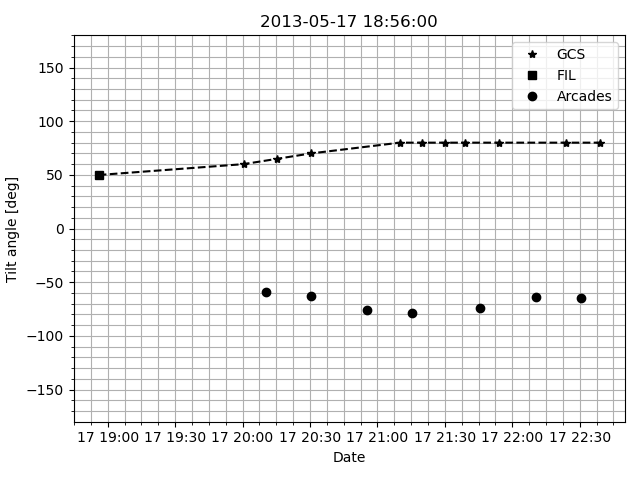
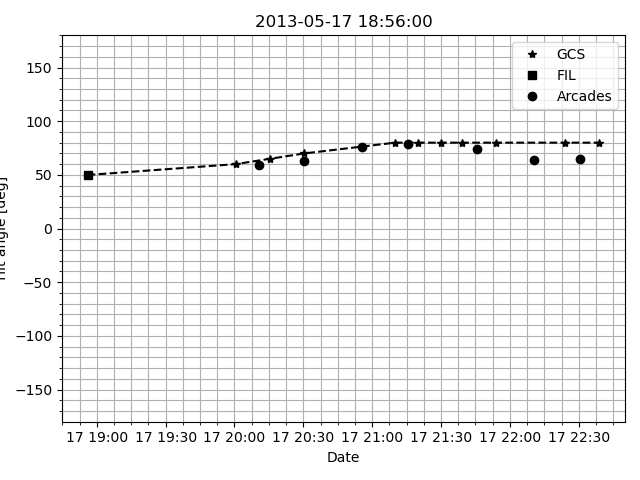
added all prop comparision with arcdes. MUST SOLVE ANGLE SIGN ISSUES

diff --git a/tools/iglesias/compare_all_prop.py b/tools/iglesias/compare_all_prop.py
@@ -37,7 +37,7 @@ def correct_ang(iang, flip=0):
     if flip == 1:
         ang[np.abs(ang) > 75] *= -1
     #ang[ang < 0] += 180
-    return ang
+    return np.abs(ang)
 
 
 # main
@@ -103,6 +103,7 @@ exit
 # tilt angles
 gcs_vs_ar_val = []
 gcs_vs_fil_all = []
+gcs_vs_arcades_all = []
 for d in df_fil['date']:
     d_str = d.strftime('%Y%m%d')
     if d_str in gcs_dates:
@@ -145,6 +146,7 @@ for d in df_fil['date']:
         y3 = np.array(y3).astype(float)
         y3 = correct_ang(y3, flip=0)
         plt.plot(x3, y3, 'ok', label='Arcades')
+        gcs_vs_arcades_all.append([gcs_val[0], y3[0]])
         ind = np.argsort(gcs_times)
         gcs_times = gcs_times[ind]
         gcs_val = gcs_val[ind]
@@ -163,12 +165,111 @@ for d in df_fil['date']:
 
 gcs_vs_fil_all = np.array(gcs_vs_fil_all)
 gcs_vs_ar_val = np.array(gcs_vs_ar_val)
+gcs_vs_arcades_all = np.array(gcs_vs_arcades_all)
 plt.scatter(gcs_vs_fil_all[:, 0], gcs_vs_fil_all[:, 1], color='b', label='gcs vs fil')
 plt.scatter(gcs_vs_ar_val[:, 0], gcs_vs_ar_val[:, 1], color='r', label='gcs vs ar')
+plt.scatter(gcs_vs_arcades_all[:, 0], gcs_vs_arcades_all[:, 1], color='g', label='gcs vs arcades')
 plt.ylabel('fil/ar [deg]')
 plt.xlabel('gcs [deg]')  
 plt.xlim([-90, 90])
 plt.ylim([-90, 90])
 plt.legend()
 plt.savefig(opath+'/scatter.png')
+plt.close()
+
+# plots df_ar['gcs_axial_vel'] vs df_arcades['width fit vel [km/s]'] for each date
+df_ar['datetimes'] = pd.to_datetime(df_ar['Date'], format='%d/%m/%Y')
+all_x=[]
+all_y=[]
+for d in df_ar['datetimes']:
+    d_str = d.strftime('%Y%m%d')
+    x = np.array((df_ar.loc[df_ar['datetimes'] == d, 'gcs_axial_vel']))
+    if len(x) > 1:
+        x = np.nanmean(x)
+    x = float(x)
+    y = np.mean(df_arcades.loc[df_arcades['date'].dt.date == d.date(), 'width fit vel [km/s]'])
+    all_x.append(x)
+    all_y.append(y)
+plt.scatter(all_x, all_y)
+plt.xlabel('gcs_axial_vel [km/s]')
+plt.ylabel('arcade width fit vel [km/s]')
+plt.savefig(opath+'/gcs_axial_vel_vs_width_fit_vel.png')
+plt.close()
+
+# plots df_ar['gcs_radial_vel_at6'] vs df_arcades['width fit vel [km/s]'] for each date
+df_ar['datetimes'] = pd.to_datetime(df_ar['Date'], format='%d/%m/%Y')
+all_x=[]
+all_y=[]
+for d in df_ar['datetimes']:
+    d_str = d.strftime('%Y%m%d')
+    x = np.array((df_ar.loc[df_ar['datetimes'] == d, 'gcs_radial_vel_at6']))
+    if len(x) > 1:
+        x = np.nanmean(x)
+    x = float(x)
+    y = np.mean(df_arcades.loc[df_arcades['date'].dt.date == d.date(), 'width fit vel [km/s]'])
+    all_x.append(x)
+    all_y.append(y)
+plt.scatter(all_x, all_y)
+plt.xlabel('gcs_radial_vel_at6 [km/s]')
+plt.ylabel('arcade width fit vel [km/s]')
+plt.savefig(opath+'/gcs_radial_vel_at6_vs_width_fit_vel.png')
+plt.close()
+
+# plots df_ar['gcs_radial_vel_at6'] vs df_arcades['length fit vel [km/s]'] for each date
+df_ar['datetimes'] = pd.to_datetime(df_ar['Date'], format='%d/%m/%Y')
+all_x=[]
+all_y=[]
+for d in df_ar['datetimes']:
+    d_str = d.strftime('%Y%m%d')
+    x = np.array((df_ar.loc[df_ar['datetimes'] == d, 'gcs_radial_vel_at6']))
+    if len(x) > 1:
+        x = np.nanmean(x)
+    x = float(x)
+    y = np.mean(df_arcades.loc[df_arcades['date'].dt.date == d.date(), 'length fit vel [km/s]'])
+    all_x.append(x)
+    all_y.append(y)
+plt.scatter(all_x, all_y)
+plt.xlabel('gcs_radial_vel_at6 [km/s]')
+plt.ylabel('arcade length fit vel [km/s]')
+plt.savefig(opath+'/gcs_radial_vel_at6_vs_length_fit_vel.png')
+plt.close()
+
+# plots df_ar['gcs_lat_vel'] vs df_arcades['width fit vel [km/s]'] for each date
+df_ar['datetimes'] = pd.to_datetime(df_ar['Date'], format='%d/%m/%Y')
+all_x=[]
+all_y=[]
+for d in df_ar['datetimes']:
+    d_str = d.strftime('%Y%m%d')
+    x = np.array((df_ar.loc[df_ar['datetimes'] == d, 'gcs_lat_vel']))
+    if len(x) > 1:
+        x = np.nanmean(x)
+    x = float(x)
+    y = np.mean(df_arcades.loc[df_arcades['date'].dt.date == d.date(), 'width fit vel [km/s]'])
+    all_x.append(x)
+    all_y.append(y)
+plt.scatter(all_x, all_y)
+plt.xlabel('gcs_lat_vel [km/s]')
+plt.ylabel('arcade width fit vel [km/s]')
+plt.savefig(opath+'/gcs_lat_vel_vs_width_fit_vel.png')
+plt.close()
+
+
+# plots df_ar['gcs_awl_awd_ratio'] vs df_arcades['width fit vel [km/s]'] for each date
+df_ar['datetimes'] = pd.to_datetime(df_ar['Date'], format='%d/%m/%Y')
+all_x=[]
+all_y=[]
+for d in df_ar['datetimes']:
+    d_str = d.strftime('%Y%m%d')
+    x = np.array((df_ar.loc[df_ar['datetimes'] == d, 'gcs_awl_awd_ratio']))
+    if len(x) > 1:
+        x = np.nanmean(x)
+    x = float(x)
+    y = np.mean(df_arcades.loc[df_arcades['date'].dt.date == d.date(), 'width fit vel [km/s]']) 
+    y /= np.mean(df_arcades.loc[df_arcades['date'].dt.date == d.date(), 'length fit vel [km/s]'])
+    all_x.append(x)
+    all_y.append(y)
+plt.scatter(all_x, all_y)
+plt.xlabel('gcs_awl_awd_ratio')
+plt.ylabel('arcade width fit vel /length fit vel')
+plt.savefig(opath+'/gcs_awl_awd_ratio_vs_width_over_length_fit_vel.png')
 plt.close()
